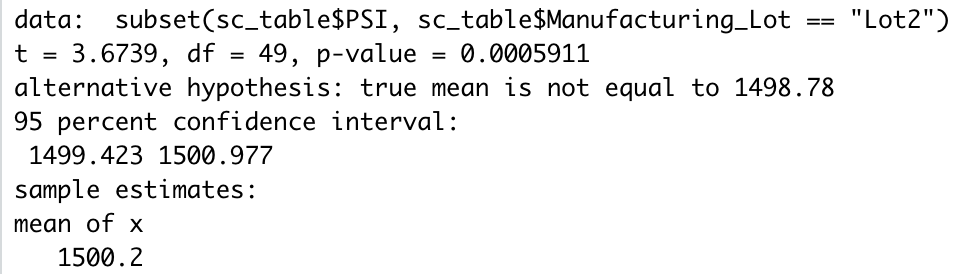
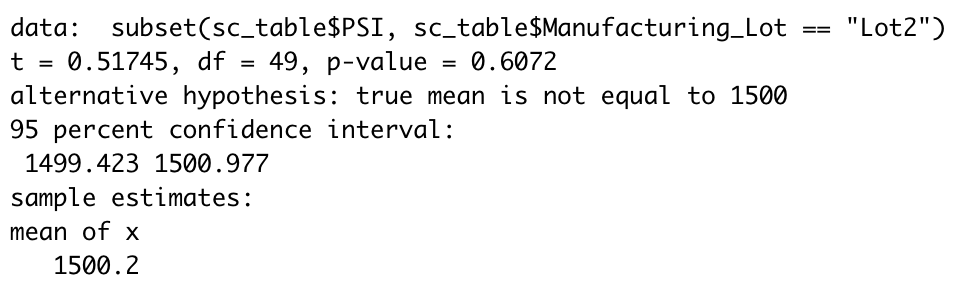
updating readme

diff --git a/README.md b/README.md
@@ -6,8 +6,7 @@
 **Analysis:** [RScript File](/MechaCarChallenge.RScript.R)
 
 ## Linear Regression to Predict MPG
-### Summary
-Using MechaCar data from protoypes, a linear model was created in R, to predict mpg value based on contributing factors. 
+Using MechaCar data from protoypes, a linear model was created in R, to predict mpg value based on contributing factors. The contributing factor measured were: vehicle length, vehicle weight, spoiler angle, ground clearance, and all wheel drive status (AWD).
 <br>
 <br>**Image 1. Linear Model Coefficients**
 <br>![Image link](/Images/lr_model.png)
@@ -15,16 +14,15 @@ Using MechaCar data from protoypes, a linear model was created in R, to predict 
 <br>**Image 2. Linear Model Summary**
 <br>![Image link](/Images/summary_lrm.png)
 
-### Findings
+### Results
 1. Which variables/coefficients provided a non-random amount of variance to the mpg values in the dataset?
- - As shown in the summary (Image 2), vehicle length and ground clearance provided non-random variance of less than 5%.
+ - As shown in the summary (image 2), vehicle length and ground clearance provided non-random variance of less than 5%.
 2. Is the slope of the linear model considered to be zero? Why or why not?
  - With a p value = 5.35e-11, the null hypothesis should be rejected; the slope does not equal 0
 3. Does this linear model predict mpg of MechaCar prototypes effectively? Why or why not?
  - With an r^2 value of 0.71, this may not be best model to predict mpg. Only vehicle length and ground clearance were considered significant factors, showing that there are most likely other features to consider for a linear model. 
 
 ## Summary Statistics on Suspension Coils
-### Summary
 Using MechaCar data from protoypes, the PSI of the suspension coils were measured for vehicles across 3 lots and calculated values for mean, median, variance, and standard deviation. 
 <br>
 <br>**Image 3. Vehicle PSI Statistics**
@@ -35,13 +33,12 @@ Using MechaCar data from protoypes, the PSI of the suspension coils were measure
 <br>![Image link](/Images/lot_summary.png)
 <br>Image 4 shows the summary of statistical values for PSI values grouped by manufacturing lot. 
 
-### Findings
+### Results
 4. The design specifications for the MechaCar suspension coils dictate that the variance of the suspension coils must not exceed 100 pounds per square inch. Does the current manufacturing data meet this design specification for all manufacturing lots in total and each lot individually? Why or why not?
- - For all vehicles accross the lots, the variance equals 62.3 which does meet the specifications. However, the vehicles from lot 3 show a variance eqaul 170.3. This indicates outliers that maybe caused by manufacturing errors in this lot. 
+ - For all vehicles accross the lots, the variance equals 62.3 which does meet the specifications. However, the vehicles from lot 3 show a variance eqaul 170.3. This indicates outliers that may be caused by manufacturing errors in this lot. 
 
 ## T-Tests on Suspension Coils
-### Summary
-To compare the lots mean, t-test statistical test were ran for the total cars and for each lot. 
+To compare the PSI values accross the lots, t-test statistical tests were ran for the total cars in dataset and subset by each lot using one-sample t-tests. The population mean was recorded as 1500 PSI and p-values were observed using a significance level of 0.05. Our null hypothesis for each tests states that true mean of the samples do not statiscally differ from the population mean. Our alternative hypothesis states that there is a difference between the means of the sample and population.
 <br>
 <br>**Image 5. All Lots vs Total T-Test**
 <br>![Image link](/Images/t.test_all.png)
@@ -55,8 +52,10 @@ To compare the lots mean, t-test statistical test were ran for the total cars an
 <br>**Image 8. Lot 3 vs Total T-Test**
 <br>![Image link](/Images/t.test_lot3.png)
 
-### Findings
- - 
+### Results
+ - The first three t-tests, using all lots, lot 1, and lot 2 sample values respectively (images 5, 6, and 7), result in p values that are greater than 0.05. This would lead us to fail to reject the null hypothesis, relating that there is no significant difference between these samples and the population mean of PSI values.
+ - The final t-test, using lot 3 sample PSI values (image 7), shows a p value of less than 0.05. This would lead us to reject our null hypothesis and favor the alternate, the mean of the sample is significantly different from the population. 
+   - This correlates with our summary stastic table (image 4) showing that the variance of PSI values in lot 3, exceeded the threshhold.
 
 ## Study Design: MechaCar vs Competition
 <!-- Write a short description of a statistical study that can quantify how the MechaCar performs against the competition. In your study design, think critically about what metrics would be of interest to a consumer: for a few examples, cost, city or highway fuel efficiency, horse power, maintenance cost, or safety rating.
